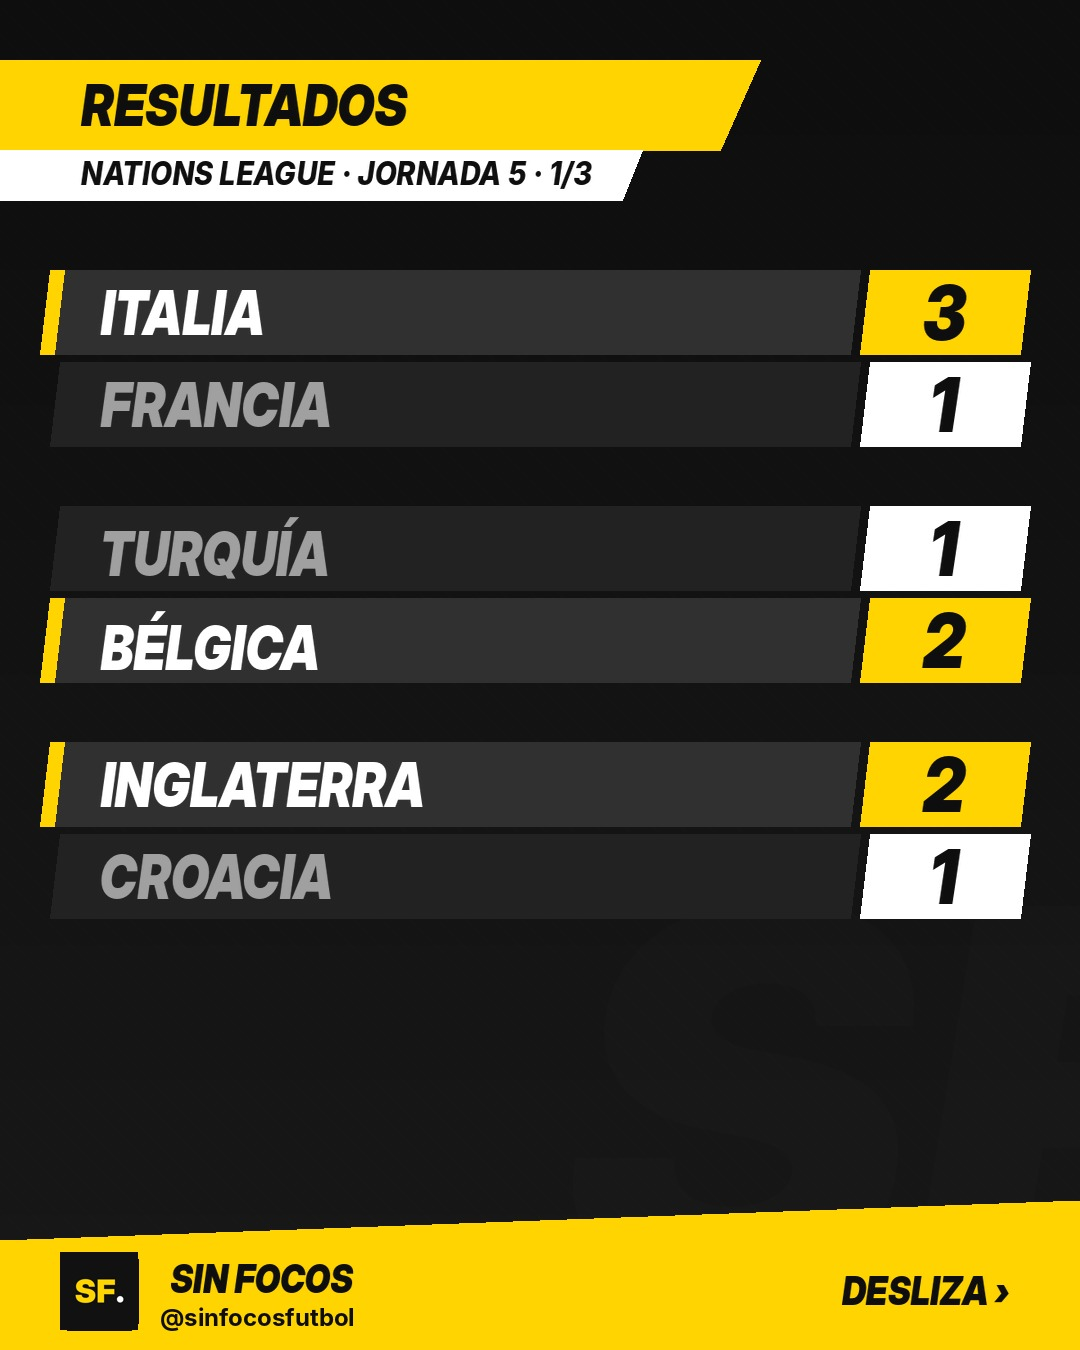
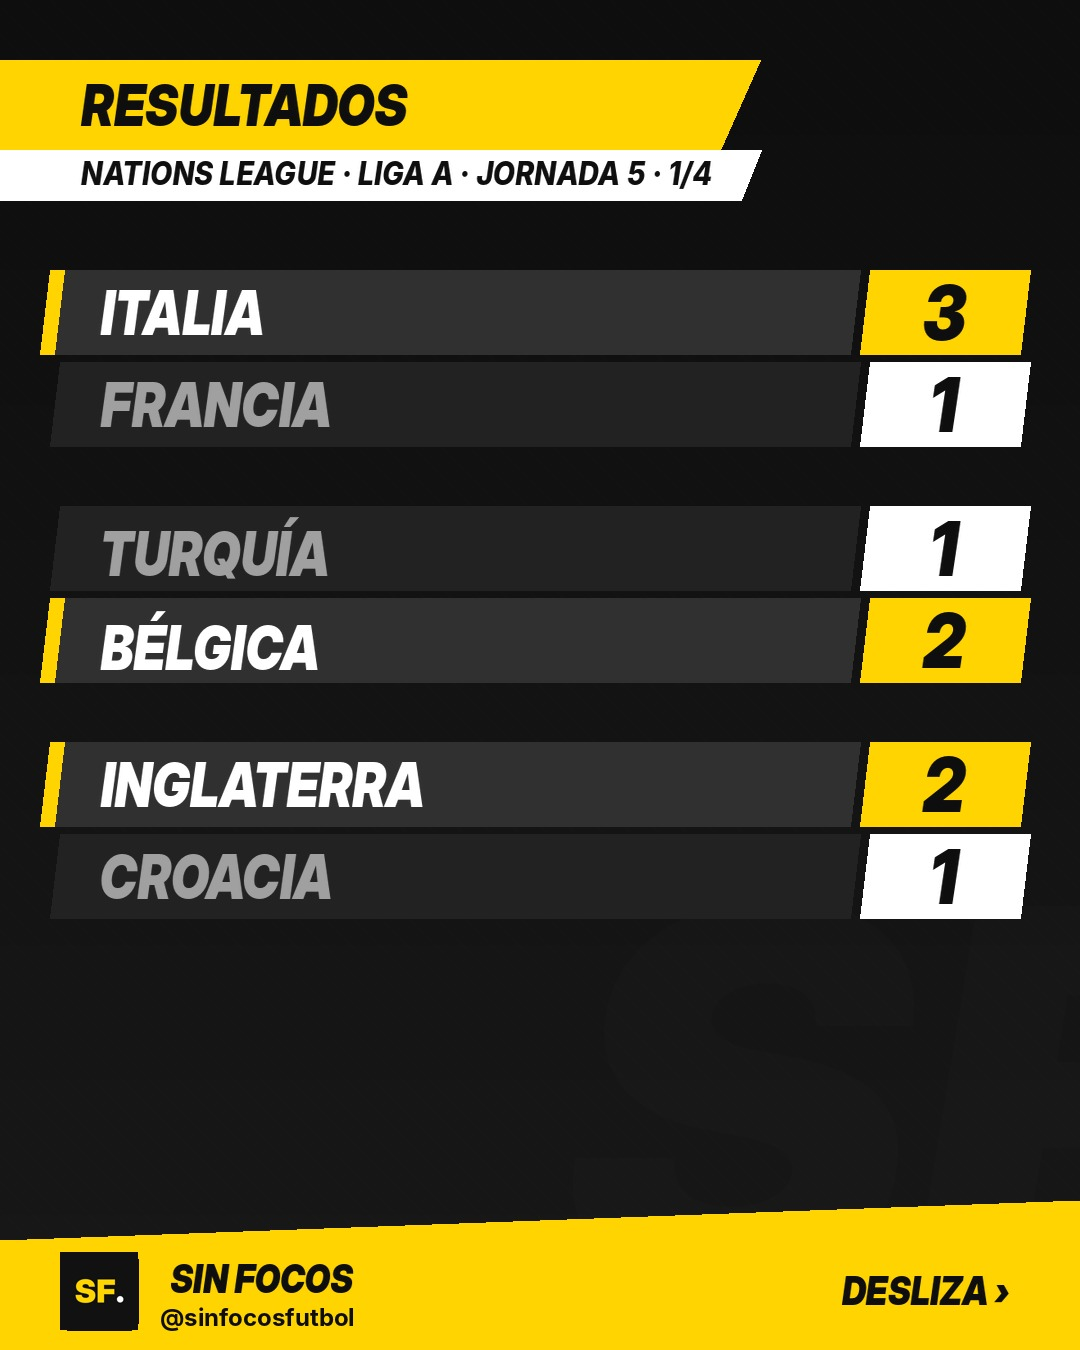
Nations League en una publicación separada por ligas; previas también en Instagram con resumen
- Resultados: cada imagen lleva una sola división (Liga A, B, C, D) y el rótulo la indica.
- Previas: rótulo por división, varias imágenes si hay muchos partidos, y ahora van a Instagram
  (solo el día del partido). Pie con resumen de la previa; pie de resultados con resumen de los partidos.
- La IA organiza crónica y texto de Instagram por divisiones cuando las hay.

Claude-Session: https://claude.ai/code/session_019Q6nuhay5EWTPNW2jHTVsk

Changed region(s): [[0.3361, 0.0933, 0.7028, 0.1556]]

diff --git a/pipeline/tarjetas.py b/pipeline/tarjetas.py
@@ -172,6 +172,20 @@ def _ronda(paquete: dict) -> str:
     return ronda(next((p.get("jornada") for p in paquete["partidos"] if p.get("jornada")), None))
 
 
+def division(p: dict) -> str:
+    """'League A - 5' → 'Liga A' (Nations League). Vacío si la competición no tiene divisiones."""
+    m = re.match(r"^League ([A-D])\b", p.get("jornada") or "")
+    return f"Liga {m.group(1)}" if m else ""
+
+
+def por_division(partidos: list[dict]) -> list[tuple[str, list[dict]]]:
+    """Agrupa los partidos por división (A, B, C, D) manteniendo el orden dentro de cada una."""
+    grupos: dict[str, list[dict]] = {}
+    for p in partidos:
+        grupos.setdefault(division(p), []).append(p)
+    return sorted(grupos.items())
+
+
 # ---------- tarjetas ----------
 
 def dato_resultados(paquete: dict) -> str:
@@ -233,12 +247,14 @@ def tarjetas_resultados(paquete: dict, cuenta: str, carpeta: Path, base: str) ->
     """Marcadores estilo tele, POR_TARJETA partidos por imagen. Primero los de más goles."""
     titulo, grupo = _partes(paquete)
     partidos = sorted(paquete["partidos"], key=lambda p: -((p["goles_local"] or 0) + (p["goles_visitante"] or 0)))
-    trozos = [partidos[i:i + POR_TARJETA] for i in range(0, len(partidos), POR_TARJETA)][:7]
+    # cada imagen lleva partidos de una sola división (Nations League: Liga A, B, C, D por separado)
+    trozos = [(div, ps[i:i + POR_TARJETA]) for div, ps in por_division(partidos)
+              for i in range(0, len(ps), POR_TARJETA)][:7]
     hay_clasif = bool(paquete.get("clasificacion"))
     salida = []
-    for n, trozo in enumerate(trozos, 1):
+    for n, (div, trozo) in enumerate(trozos, 1):
         img, d = fondo()
-        sub = _junta(titulo, grupo, _ronda(paquete))
+        sub = _junta(titulo, grupo, div, _ronda(paquete))
         if len(trozos) > 1:
             sub = _junta(sub, f"{n}/{len(trozos)}")
         cabecera(img, d, "Resultados", sub)
@@ -295,35 +311,45 @@ def _hora(p: dict) -> str:
     return (p.get("fecha") or "")[11:16] or "--:--"
 
 
-def tarjeta_previa(paquete: dict, cuenta: str, destino: Path) -> Path:
-    """Un partido: cara a cara en grande. Varios: lista con la hora de cada uno."""
+def _paginas_previa(partidos: list[dict]) -> list[list]:
+    """Reparte los partidos en imágenes de hasta POR_PREVIA filas, con el rótulo de división delante."""
+    paginas, actual = [], []
+    for div, ps in por_division(partidos):
+        for p in ps:
+            if len(actual) >= POR_PREVIA + (1 if div else 0):
+                paginas.append(actual)
+                actual = []
+            if div and (not actual or div not in actual):
+                actual.append(div)
+            actual.append(p)
+    return paginas + [actual] if actual else paginas
+
+
+def tarjetas_previa(paquete: dict, cuenta: str, carpeta: Path, base: str) -> list[Path]:
+    """Previa para Instagram. Un partido: cara a cara. Varios: lista con horas, en tantas imágenes como haga falta.
+    La primera imagen se guarda como <base>.jpg (es también la de la web); las siguientes, <base>-2.jpg…"""
     titulo, grupo = _partes(paquete)
     partidos = paquete["partidos"]
-    img, d = fondo()
-    cabecera(img, d, "Previa", _junta(titulo, grupo, _ronda(paquete)))
     if len(partidos) == 1:
-        p = partidos[0]
-        d.polygon([(0, 300), (ANCHO, 260), (ANCHO, 1000), (0, 1040)], fill=(26, 26, 26))
-        d.line([(0, 300), (ANCHO, 260)], fill=AMARILLO, width=8)
-        d.line([(0, 1040), (ANCHO, 1000)], fill=AMARILLO, width=8)
-        texto(img, (540, 450), p["local"].upper(), 210, BLANCO, ancla="m", estrecho=0.78, ancho_max=980)
-        d.polygon([(470, 590), (640, 590), (610, 690), (440, 690)], fill=AMARILLO)
-        texto(img, (540, 640), "VS", 80, NEGRO, ancla="m", estrecho=0.9)
-        texto(img, (540, 830), p["visitante"].upper(), 210, BLANCO, ancla="m", estrecho=0.78, ancho_max=980)
-        rotulo = f"{dia_semana(p.get('fecha') or paquete['fecha']).upper()} · {_hora(p)}"
-        w = ancho_texto(rotulo, 70, TITULAR, 0.85) + 140
-        x0 = 540 - w // 2
-        d.polygon([(x0 + 20, 1060), (x0 + w + 20, 1060), (x0 + w, 1160), (x0, 1160)], fill=BLANCO)
-        texto(img, (530, 1110), rotulo, 70, NEGRO, ancla="m", estrecho=0.85)
-        if p.get("estadio"):
-            d.text((540, 1190), p["estadio"].upper(), font=fuente(TEXTO, 28), fill=GRIS, anchor="mm")
-    else:
+        return [_previa_cara_a_cara(paquete, partidos[0], cuenta, carpeta / f"{base}.jpg")]
+    paginas = _paginas_previa(partidos)[:9]
+    salida = []
+    for n, filas in enumerate(paginas, 1):
+        img, d = fondo()
+        sub = _junta(titulo, grupo, _ronda(paquete), f"{n}/{len(paginas)}" if len(paginas) > 1 else "")
+        cabecera(img, d, "Previa", sub)
         d.text((70, 250), f"{dia_semana(paquete['fecha']).upper()} {fecha_corta(paquete['fecha']).upper()}",
                font=fuente(ROTULO, 30), fill=GRIS)
-        lista = partidos[:POR_PREVIA]
-        alto = min(150, (1180 - 310) // len(lista))
-        y = 310 + max(0, (1180 - 310 - alto * len(lista)) // 2)
-        for p in lista:
+        alto = min(150, (1180 - 310) // len(filas))
+        y = 310 + max(0, (1180 - 310 - alto * len(filas)) // 2)
+        for p in filas:
+            if isinstance(p, str):  # rótulo de división
+                w = ancho_texto(p.upper(), 40, TITULAR, 0.85) + 70
+                d.polygon([(60, y + alto - 62), (60 + w, y + alto - 62), (40 + w, y + alto - 14), (60, y + alto - 14)],
+                          fill=AMARILLO)
+                texto(img, (84, y + alto - 38), p.upper(), 40, NEGRO, estrecho=0.85)
+                y += alto
+                continue
             h = alto - 14
             d.polygon([(60, y), (1030, y), (1022, y + h), (52, y + h)], fill=BARRA)
             d.polygon([(445, y), (635, y), (627, y + h), (437, y + h)], fill=AMARILLO)
@@ -332,8 +358,28 @@ def tarjeta_previa(paquete: dict, cuenta: str, destino: Path) -> Path:
             texto(img, (415, y + h // 2), p["local"].upper(), tam, BLANCO, ancla="r", estrecho=0.82, ancho_max=340)
             texto(img, (665, y + h // 2), p["visitante"].upper(), tam, BLANCO, estrecho=0.82, ancho_max=340)
             y += alto
-        if len(partidos) > POR_PREVIA:
-            d.text((70, y + 6), f"+{len(partidos) - POR_PREVIA} partidos más en la web",
-                   font=fuente(TEXTO, 28), fill=GRIS)
+        pie(img, d, cuenta, "Desliza ›" if n < len(paginas) else "Previa en la web")
+        salida.append(guardar(img, carpeta / (f"{base}.jpg" if n == 1 else f"{base}-{n}.jpg")))
+    return salida
+
+
+def _previa_cara_a_cara(paquete: dict, p: dict, cuenta: str, destino: Path) -> Path:
+    titulo, grupo = _partes(paquete)
+    img, d = fondo()
+    cabecera(img, d, "Previa", _junta(titulo, grupo, division(p), _ronda(paquete)))
+    d.polygon([(0, 300), (ANCHO, 260), (ANCHO, 1000), (0, 1040)], fill=(26, 26, 26))
+    d.line([(0, 300), (ANCHO, 260)], fill=AMARILLO, width=8)
+    d.line([(0, 1040), (ANCHO, 1000)], fill=AMARILLO, width=8)
+    texto(img, (540, 450), p["local"].upper(), 210, BLANCO, ancla="m", estrecho=0.78, ancho_max=980)
+    d.polygon([(470, 590), (640, 590), (610, 690), (440, 690)], fill=AMARILLO)
+    texto(img, (540, 640), "VS", 80, NEGRO, ancla="m", estrecho=0.9)
+    texto(img, (540, 830), p["visitante"].upper(), 210, BLANCO, ancla="m", estrecho=0.78, ancho_max=980)
+    rotulo = f"{dia_semana(p.get('fecha') or paquete['fecha']).upper()} · {_hora(p)}"
+    w = ancho_texto(rotulo, 70, TITULAR, 0.85) + 140
+    x0 = 540 - w // 2
+    d.polygon([(x0 + 20, 1060), (x0 + w + 20, 1060), (x0 + w, 1160), (x0, 1160)], fill=BLANCO)
+    texto(img, (530, 1110), rotulo, 70, NEGRO, ancla="m", estrecho=0.85)
+    if p.get("estadio"):
+        d.text((540, 1190), p["estadio"].upper(), font=fuente(TEXTO, 28), fill=GRIS, anchor="mm")
     pie(img, d, cuenta, "Previa en la web")
     return guardar(img, destino)

diff --git a/pipeline/redactor.py b/pipeline/redactor.py
@@ -22,7 +22,10 @@ Normas estrictas:
 cambios de liderato, equipos en zona alta o baja según la clasificación.
 - El cuerpo va en Markdown: un párrafo de resumen de la jornada, luego un apartado por partido \
 destacado y un cierre con la clasificación (top 3 y colista). Si la clasificación viene vacía \
-(por ejemplo, en una copa), no escribas ese apartado ni menciones que falta."""
+(por ejemplo, en una copa), no escribas ese apartado ni menciones que falta.
+- Si los partidos son de varias divisiones de la misma competición (la jornada dice "Liga A", "Liga B"…, \
+como en la Nations League), ordénalos por división de la A a la D y sepáralos con un subtítulo por división, \
+tanto en el cuerpo como en texto_instagram (una línea "Liga A", sus partidos; "Liga B", los suyos…)."""
 
 ESQUEMA = {
     "type": "object",
@@ -30,7 +33,7 @@ ESQUEMA = {
         "titular": {"type": "string", "description": "Máx. 90 caracteres, sin clickbait"},
         "entradilla": {"type": "string", "description": "1-2 frases"},
         "cuerpo_markdown": {"type": "string"},
-        "texto_instagram": {"type": "string", "description": "Máx. 600 caracteres, con 2-3 emojis"},
+        "texto_instagram": {"type": "string", "description": "Pie de Instagram: 1-2 frases de resumen con lo más destacado de la jornada y después una línea por partido con resultado y goleadores (minuto). Máx. 900 caracteres, 2-3 emojis"},
         "hashtags": {"type": "array", "items": {"type": "string"}},
         "partido_destacado_id": {"type": "integer"},
     },
@@ -61,13 +64,18 @@ Es mejor una previa corta que una previa hueca.
 - Cuando haya forma o historial, conviértelos en información útil: rachas ("tres victorias seguidas"), \
 goles a favor y en contra, resultado del último enfrentamiento. Cifras exactas, sin adjetivos de más.
 - Nombres de equipos tal cual vienen.
+- Si los partidos son de varias divisiones de la misma competición (la jornada dice "Liga A", "Liga B"…, \
+como en la Nations League), ordénalos por división de la A a la D y sepáralos con un subtítulo por división, \
+tanto en el cuerpo como en texto_instagram (una línea "Liga A", sus partidos; "Liga B", los suyos…).
 
 Campos generales (artículo de la jornada):
 - titular: informativo, máx. 90 caracteres, sin dos puntos al principio ni signos de exclamación.
 - entradilla: 1-2 frases con lo esencial (cuántos partidos, el más destacado y por qué).
 - presentacion: 1 párrafo corto de contexto de la jornada con datos reales; vacío si no aporta nada nuevo.
 - claves: 0-3 frases con datos concretos de la jornada. Lista vacía si no hay datos.
-- texto_instagram: lista de los partidos con su hora, 1-2 emojis como máximo, sin relleno.
+- texto_instagram: pie de la publicación de Instagram. Primero un resumen de la previa en 2-4 frases \
+con datos reales (cómo llegan los equipos según "forma", último enfrentamiento según "historial", partido \
+destacado); después, la lista de partidos con su hora. Máx. 900 caracteres, 1-2 emojis, sin relleno.
 - partido_destacado_id: el partido más relevante según los datos (o el primero).
 
 Previa de cada partido (campo "partidos", un elemento por cada partido recibido, con su id):
@@ -116,7 +124,9 @@ ESQUEMA_PREVIA = {
 def redactar(paquete: dict, config: dict, demo: bool = False) -> dict:
     if demo or not (os.environ.get("ANTHROPIC_API_KEY") or os.environ.get("ANTHROPIC_AUTH_TOKEN")):
         return redactar_plantilla(paquete)
-    return _llamar(SISTEMA, "Escribe la crónica de esta jornada. Datos:\n", paquete, config, ESQUEMA)
+    from .previas import jornada_es
+    datos = {**paquete, "partidos": [{**p, "jornada": jornada_es(p.get("jornada"))} for p in paquete["partidos"]]}
+    return _llamar(SISTEMA, "Escribe la crónica de esta jornada. Datos:\n", datos, config, ESQUEMA)
 
 
 def redactar_previa(paquete: dict, config: dict, demo: bool = False) -> dict:

diff --git a/pipeline/__main__.py b/pipeline/__main__.py
@@ -85,9 +85,13 @@ def rehacer_tarjetas(cfg: dict) -> None:
             continue
         paq = {"liga": {"etiqueta": a["etiqueta"]}, "fecha": a["fecha"]}
         if a.get("tipo") == "previa":
-            img = tarjetas.tarjeta_previa({**paq, "partidos": a["proximos"]}, cfg["medio"]["instagram"],
-                                          CONTENIDO / a["imagenes_web"][0])
-            print("✔", img.name)
+            web_img = CONTENIDO / a["imagenes_web"][0]
+            imgs = tarjetas.tarjetas_previa({**paq, "partidos": a["proximos"]}, cfg["medio"]["instagram"],
+                                            web_img.parent, web_img.stem)
+            if "imagenes" in a:  # solo las previas nuevas van a Instagram; las antiguas, solo web
+                a["imagenes"] = [str(i.relative_to(CONTENIDO)) for i in imgs]
+                ruta.write_text(json.dumps(a, ensure_ascii=False, indent=2))
+            print("✔", web_img.name, len(imgs), "imágenes")
             continue
         for viejo in a.get("imagenes", []):
             (CONTENIDO / viejo).unlink(missing_ok=True)
@@ -150,13 +154,13 @@ def generar_previas(cfg: dict, fecha: str, demo: bool) -> list[str]:
         except Exception as e:
             print(f"ERROR en la previa de {liga['etiqueta']}: {e}", file=sys.stderr)
             continue
-        img = tarjetas.tarjeta_previa(paq, cfg["medio"]["instagram"], CONTENIDO / "img" / fecha / f"{s}.jpg")
+        imgs = tarjetas.tarjetas_previa(paq, cfg["medio"]["instagram"], CONTENIDO / "img" / fecha, s)
         articulo = {
             "slug": s, "tipo": "previa", "fecha": fecha, "etiqueta": liga["etiqueta"],
             "competicion": liga["competicion"], "grupo": liga["grupo"], "prioridad": liga["prioridad"],
             **{k: texto[k] for k in ("titular", "entradilla", "cuerpo_markdown", "texto_instagram", "hashtags")},
-            # Solo web: sin "imagenes", Instagram no la recoge (las crónicas mandan en Instagram)
-            "imagenes_web": [str(img.relative_to(CONTENIDO))],
+            "imagenes_web": [str(imgs[0].relative_to(CONTENIDO))],
+            "imagenes": [str(i.relative_to(CONTENIDO)) for i in imgs],  # carrusel de Instagram
             "proximos": [{k: p.get(k) for k in ("id", "fecha", "estadio", "ciudad", "jornada", "arbitro",
                                                  "local", "visitante", "escudo_local", "escudo_visitante")}
                          for p in paq["partidos"]],

diff --git a/pipeline/instagram.py b/pipeline/instagram.py
@@ -57,7 +57,8 @@ class Instagram:
 
 def texto_post(a: dict, cfg: dict) -> str:
     etiquetas = " ".join("#" + h.lstrip("#").replace(" ", "") for h in a.get("hashtags", [])[:8])
-    return f"{a['texto_instagram']}\n\n📰 Crónica completa: enlace en la bio\n\n{etiquetas}"[:2200]
+    que = "Previa" if a.get("tipo") == "previa" else "Crónica"
+    return f"{a['texto_instagram']}\n\n📰 {que} completa: enlace en la bio\n\n{etiquetas}"[:2200]
 
 
 def publicar_pendientes(cfg: dict, simular: bool = False) -> list[str]:
@@ -67,7 +68,9 @@ def publicar_pendientes(cfg: dict, simular: bool = False) -> list[str]:
     arts = [(p, json.loads(p.read_text())) for p in archivos]
     hoy = date.today().isoformat()
     ya_hoy = sum(1 for _, a in arts if a.get("ig_publicado_en", "")[:10] == hoy)
-    pendientes = sorted([x for x in arts if not x[1].get("ig_media_id") and x[1].get("imagenes")],
+    # las previas solo valen el mismo día del partido: una previa atrasada no se publica
+    pendientes = sorted([x for x in arts if not x[1].get("ig_media_id") and x[1].get("imagenes")
+                         and (x[1].get("tipo") != "previa" or x[1]["fecha"] == hoy)],
                         key=lambda x: (x[1].get("prioridad", 3), x[1]["fecha"]))
     hueco = max(cfg["limites"]["max_posts_instagram_dia"] - ya_hoy, 0)
     ig = None if simular else Instagram()
